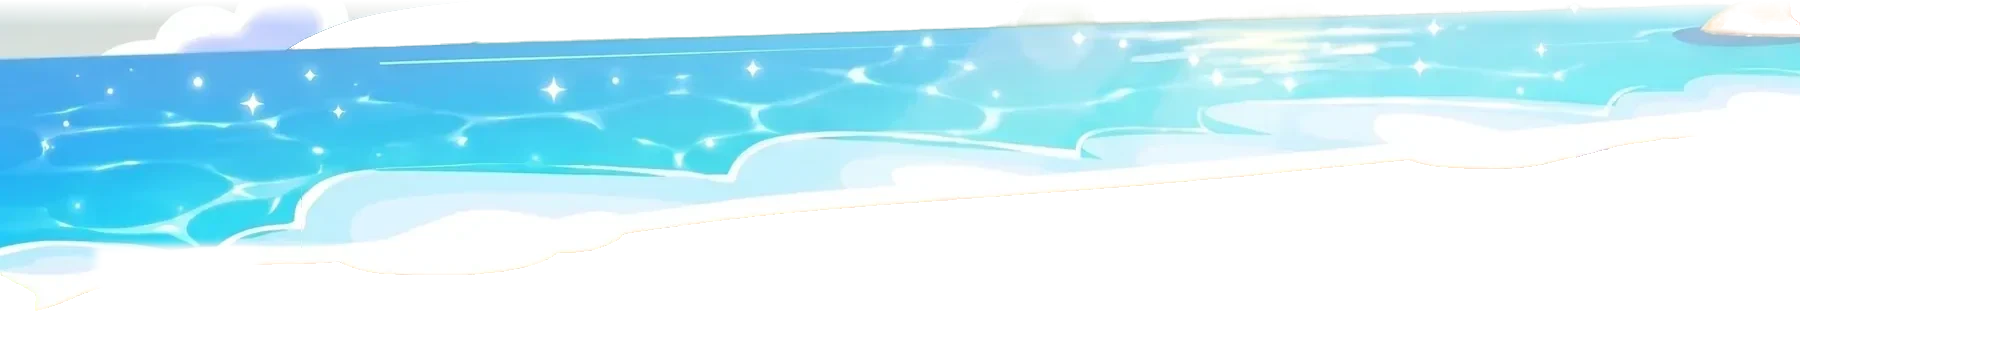
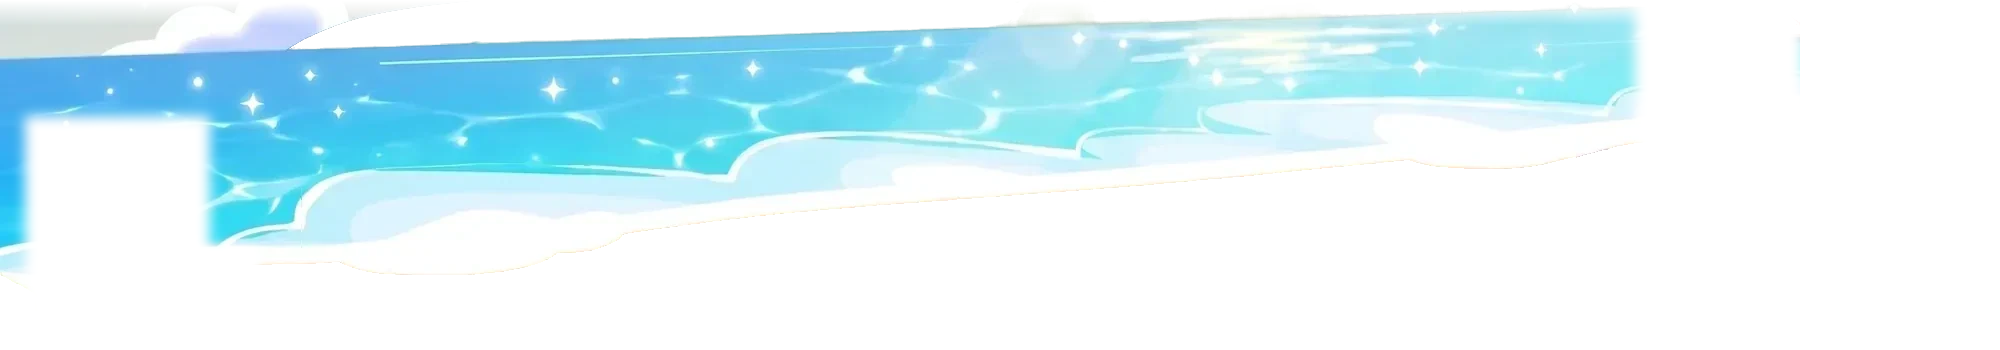
Water no longer covers the palm trunks on iPhone

Changed region(s): [[0.0, 0.3143, 0.124, 0.8], [0.806, 0.0, 0.899, 0.3143]]

diff --git a/index.html b/index.html
@@ -1481,7 +1481,7 @@ header.slotbar{justify-content:space-between!important;padding:6px 12px!importan
 @keyframes sbump{0%{transform:scale(1.5)}100%{transform:none}}
 
 </style>
-<script>window.MANGO_IMG_V = {"bg-day":"d919a75b","bg-sunset":"4de74376","buy-plank":"602240fd","frame-driftwood":"76ee142b","H1":"02610a3c","H2":"9986ec72","H3":"dd03fec8","H4":"16055f06","L1":"79847f20","L2":"deade74a","L3":"dabb402b","L4":"ec24535d","L5":"ad8186b4","rope":"f927cf27","S1":"f0935078","sc-bush-day":"cbded6bf","sc-bush-sunset":"81a88854","sc-chair-day":"4ddd96b6","sc-chair-sunset":"31c834a6","sc-crab":"8c270de0","sc-dolphin":"3b0b90c2","sc-palmL-crown":"00880cf0","sc-palmL-trunk":"3bc60c90","sc-palmL":"dcb46604","sc-palmR-crown":"8b7e31b5","sc-palmR-trunk":"e3fd67fc","sc-palmR":"037041cd","sc-plate-day":"6a3c3539","sc-plate-sunset":"9048935b","sc-splash":"fd32b9b1","sc-water-day":"a91f85b4","sc-water-sunset":"86cba3e2","sc-whale":"6d2091dd","seaweed":"1807e492","surf-tricks":"428d180b","W":"6c3e2365","wild-rider":"c2212150","wild-wave":"f24ca5f5","wood-panel":"3699864c"};</script>
+<script>window.MANGO_IMG_V = {"bg-day":"d919a75b","bg-sunset":"4de74376","buy-plank":"602240fd","frame-driftwood":"76ee142b","H1":"02610a3c","H2":"9986ec72","H3":"dd03fec8","H4":"16055f06","L1":"79847f20","L2":"deade74a","L3":"dabb402b","L4":"ec24535d","L5":"ad8186b4","rope":"f927cf27","S1":"f0935078","sc-bush-day":"cbded6bf","sc-bush-sunset":"81a88854","sc-chair-day":"4ddd96b6","sc-chair-sunset":"31c834a6","sc-crab":"8c270de0","sc-dolphin":"3b0b90c2","sc-palmL-crown":"00880cf0","sc-palmL-trunk":"3bc60c90","sc-palmL":"dcb46604","sc-palmR-crown":"8b7e31b5","sc-palmR-trunk":"e3fd67fc","sc-palmR":"037041cd","sc-plate-day":"6a3c3539","sc-plate-sunset":"9048935b","sc-splash":"fd32b9b1","sc-water-day":"16468e92","sc-water-sunset":"de08cee6","sc-whale":"6d2091dd","seaweed":"1807e492","surf-tricks":"428d180b","W":"6c3e2365","wild-rider":"c2212150","wild-wave":"f24ca5f5","wood-panel":"3699864c"};</script>
 <script>
 /*
  * Mango Surf audio - synthesized Web Audio module (play money learning project).
